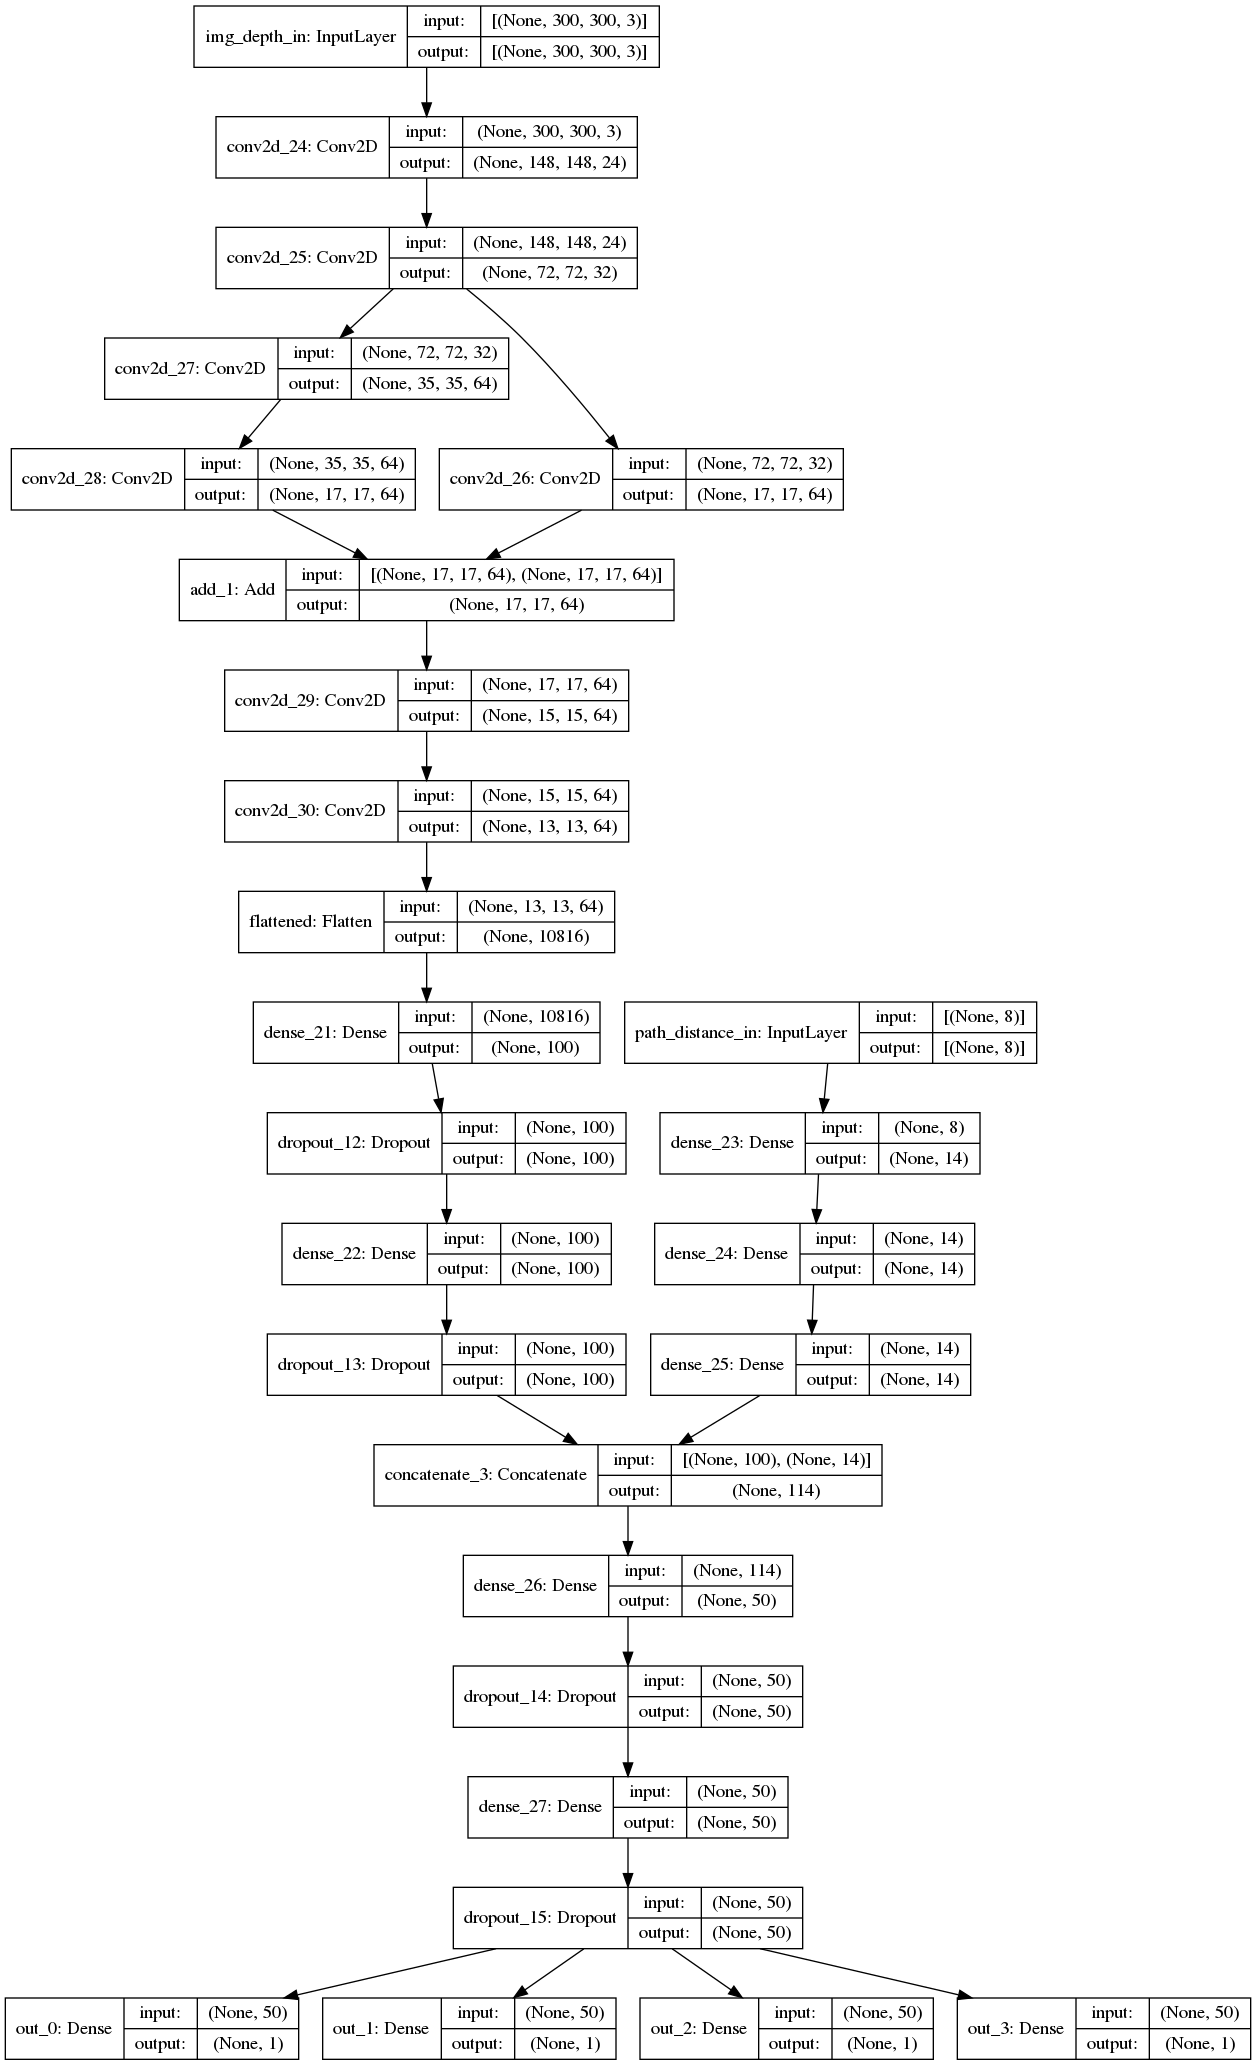
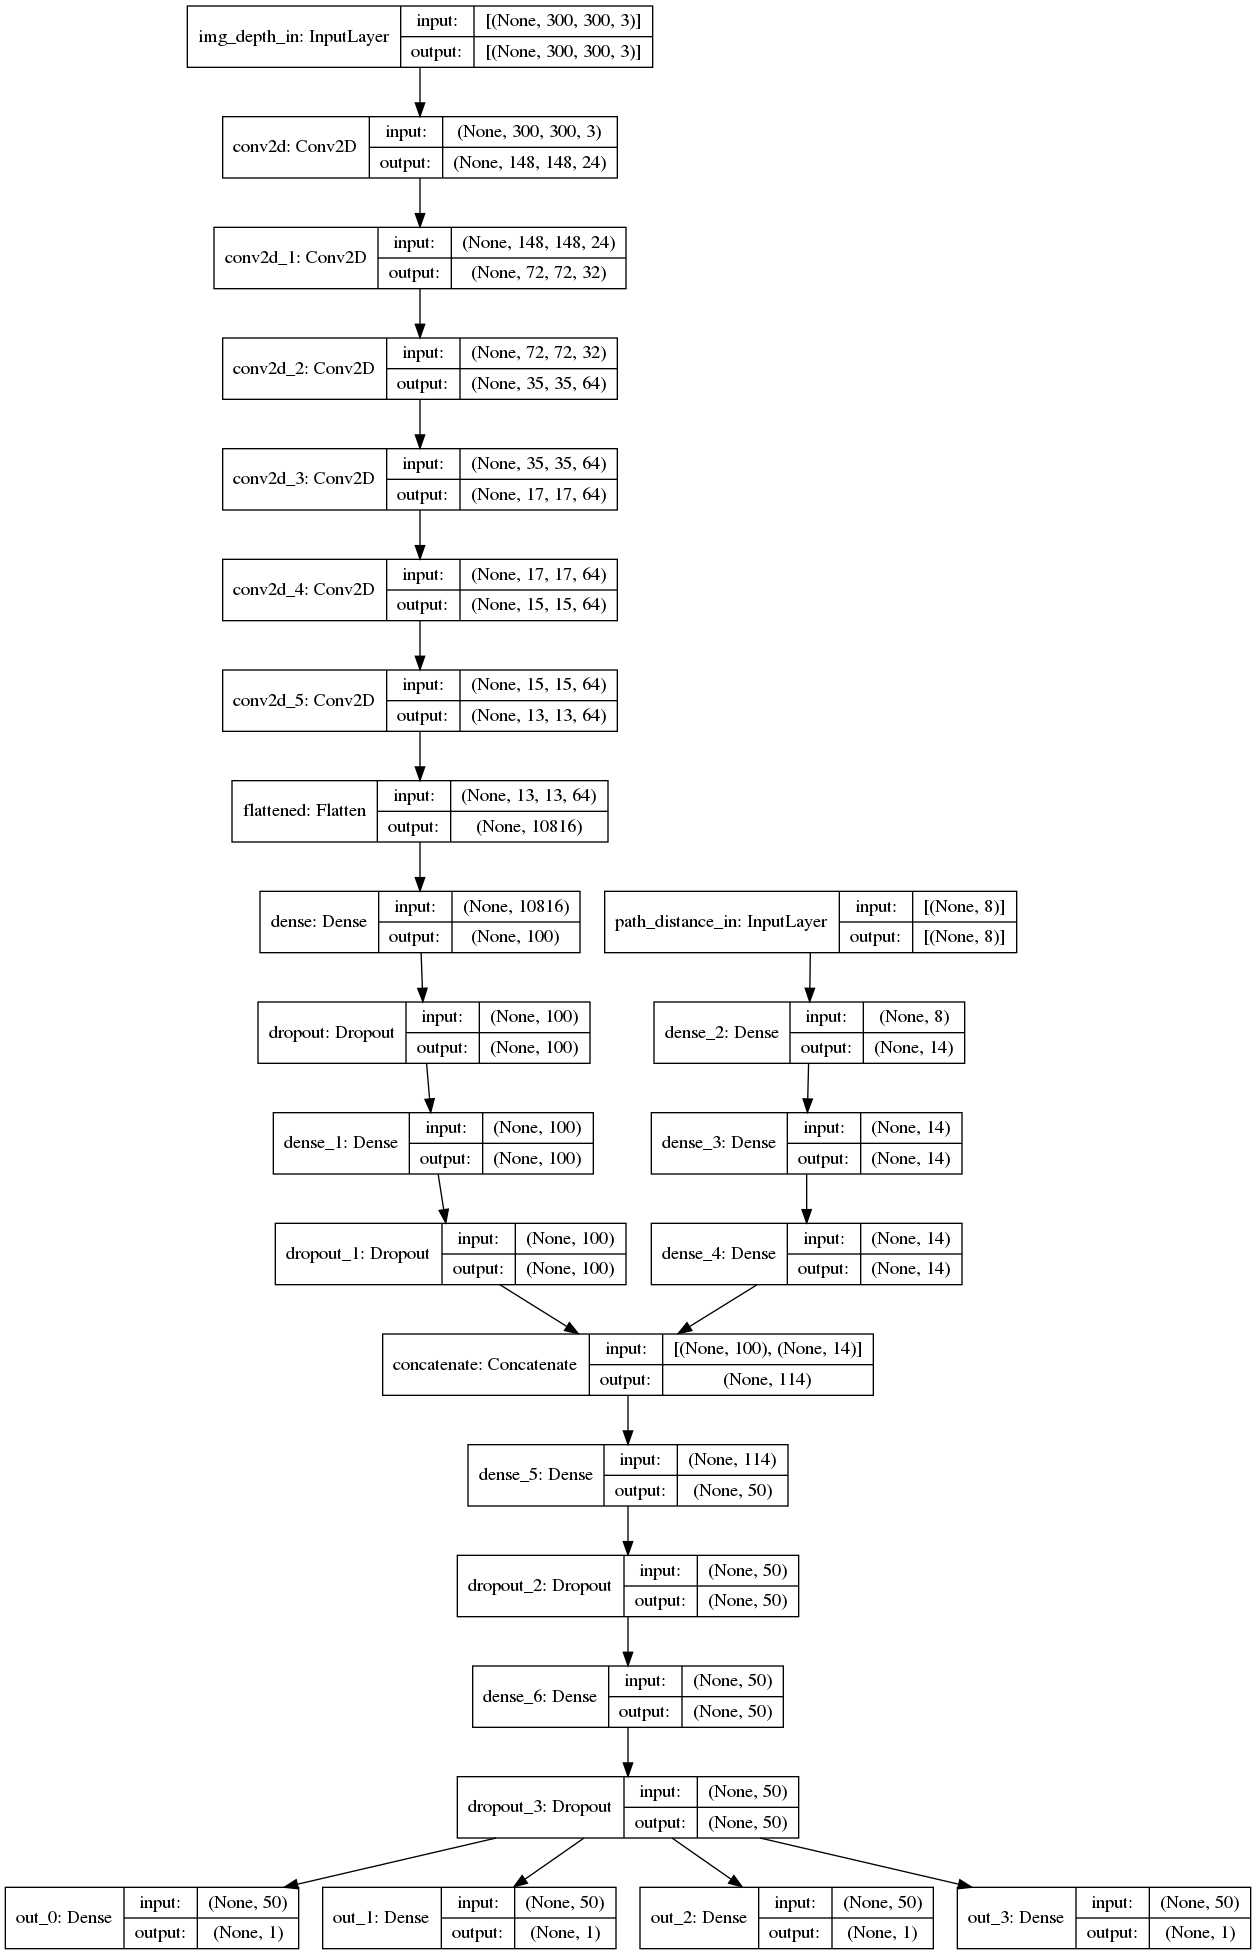
fixed visualizer

Changed region(s): [[0.0, 0.0, 0.8384, 0.9985], [0.7763, 0.9673, 0.9936, 0.9985]]

diff --git a/Tools/Visualizer.py b/Tools/Visualizer.py
@@ -2,7 +2,7 @@ import cv2
 import json
 import time 
 
-folder = "/home/sieuwe/drone/Autonomous-Ai-drone-scripts/run3_jeton" #input("Please type root direction of data folder: ")
+folder = "/media/sieuwe/5d7c8e51-1631-4466-afac-90054f13d643/home/sieuwe/Desktop/Autonomous-Attack-Drone-Ai-GPS-OLD/recordings/11-2-koen-sieuwe" #input("Please type root direction of data folder: ")
 
 playback_speed = 0.04
 
@@ -16,8 +16,8 @@ def map(value, leftMin, leftMax, rightMin, rightMax):
 
 def drawUI(img, data):
     cv2.putText(img, "TargetDistance: " + str(data['gps/target_distance']), (50,50), cv2.FONT_HERSHEY_SIMPLEX , 1, (0, 0, 255), 3, cv2.LINE_AA)     
-    cv2.putText(img, "PathDistance: " + str(0), (50,100), cv2.FONT_HERSHEY_SIMPLEX , 1, (0, 0, 255), 3, cv2.LINE_AA) 
-    cv2.putText(img, "HeadingDelta: " + str(data['gps/path_distance']), (50,150), cv2.FONT_HERSHEY_SIMPLEX , 1, (0, 0, 255), 3, cv2.LINE_AA) 
+    cv2.putText(img, "PathDistance: " + str(data['gps/path_distance']), (50,100), cv2.FONT_HERSHEY_SIMPLEX , 1, (0, 0, 255), 3, cv2.LINE_AA) 
+    cv2.putText(img, "HeadingDelta: " + str(data['gps/heading_delta']), (50,150), cv2.FONT_HERSHEY_SIMPLEX , 1, (0, 0, 255), 3, cv2.LINE_AA) 
     cv2.putText(img, "Speed: " + str(data['gps/speed']), (50,200), cv2.FONT_HERSHEY_SIMPLEX , 1, (0, 0, 255), 3, cv2.LINE_AA) 
     cv2.putText(img, "altitude: " + str(data['gps/altitude']), (50,250), cv2.FONT_HERSHEY_SIMPLEX , 1, (0, 0, 255), 3, cv2.LINE_AA) 
 

diff --git a/modules/network.py b/modules/network.py
@@ -65,9 +65,9 @@ def create_model():
     return model
 
 
-#model = create_model()
+model = create_model()
 
-#dot_img_file = 'model_1.png'
-#tf.keras.utils.plot_model(model, to_file=dot_img_file, show_shapes=True)
+dot_img_file = 'model_1.png'
+tf.keras.utils.plot_model(model, to_file=dot_img_file, show_shapes=True)
 
 # %%
